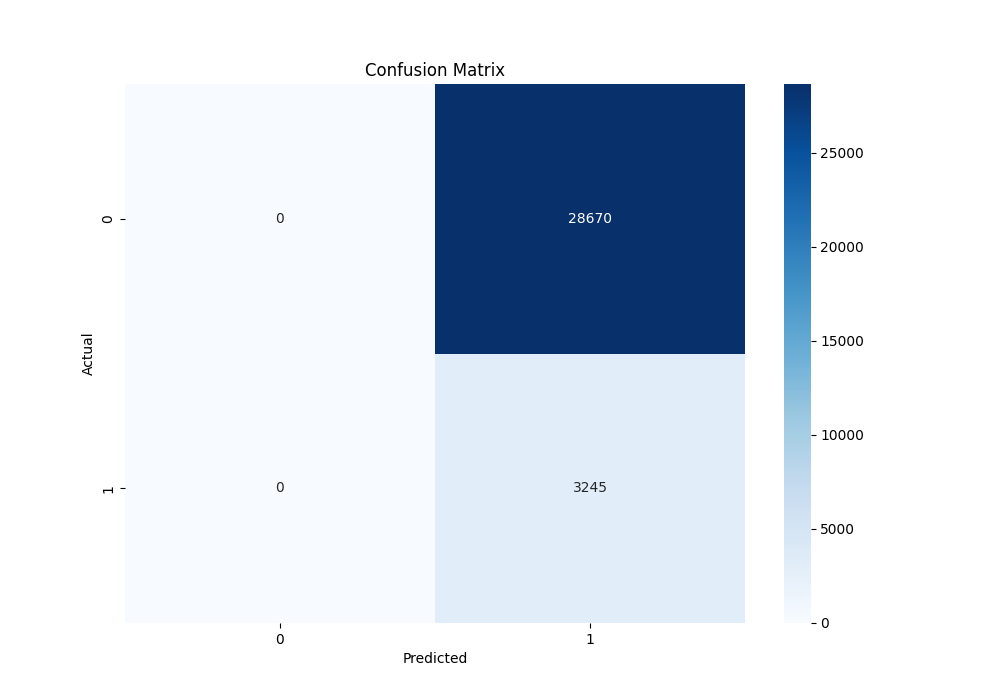
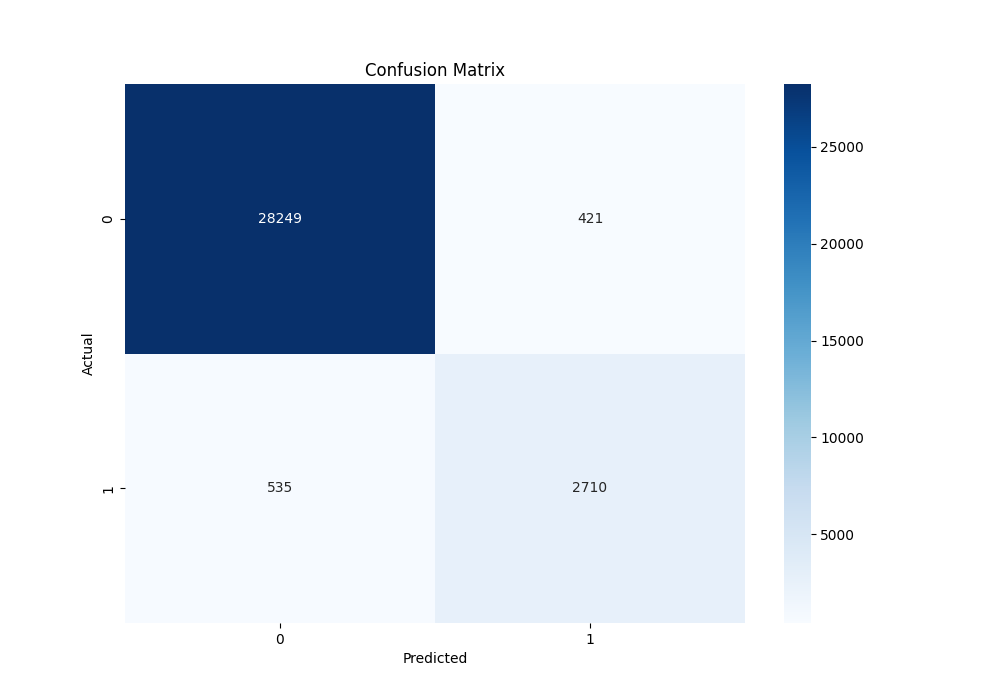
v5 and results

diff --git a/predict.py b/predict.py
@@ -11,7 +11,7 @@ def load_pipeline(model_path):
 if __name__ == "__main__":
     parser = argparse.ArgumentParser()
     parser.add_argument("--text", type=str, required=True)
-    parser.add_argument("--model", type=str, default="./hatebert_finetuned_v4")
+    parser.add_argument("--model", type=str, default="./hatebert_finetuned_v5")
     args = parser.parse_args()
 
     pipe = load_pipeline(args.model)

diff --git a/training_days.py b/training_days.py
@@ -116,6 +116,7 @@ training_args = TrainingArguments(
     evaluation_strategy="steps",
     save_strategy="steps",
     eval_steps=1000,
+    save_steps=1000,
     learning_rate=2e-5,
     per_device_train_batch_size=16,
     per_device_eval_batch_size=32,
